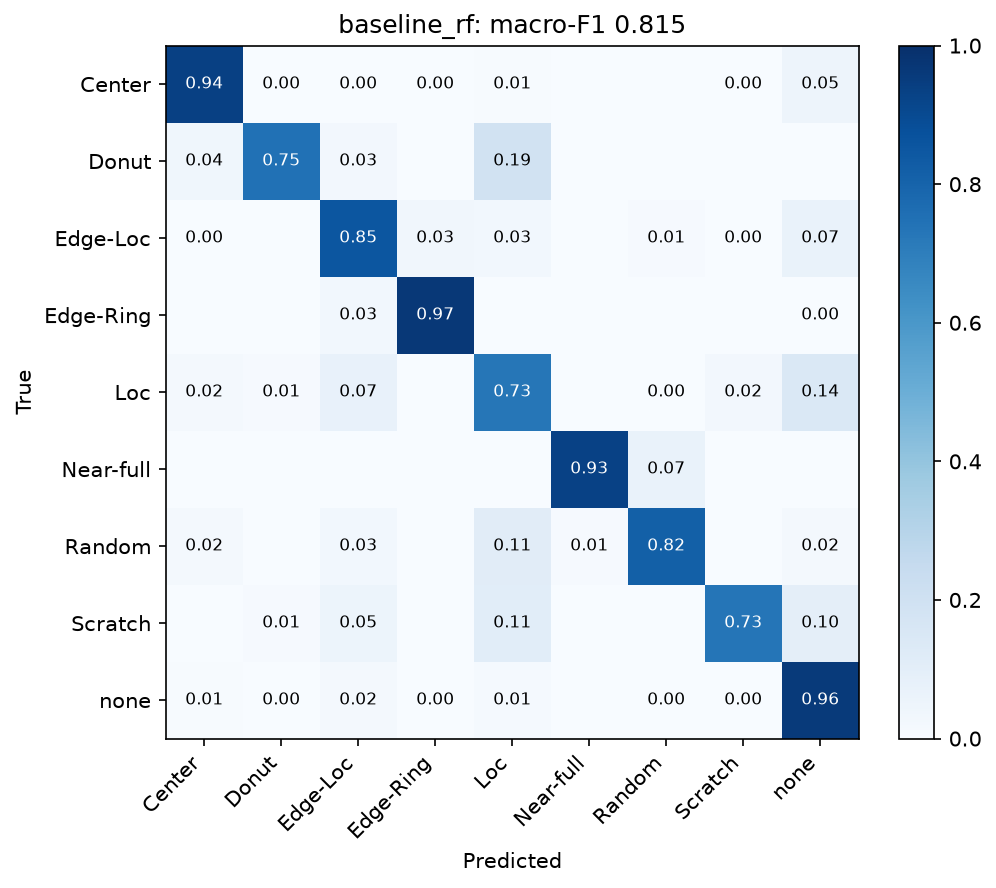
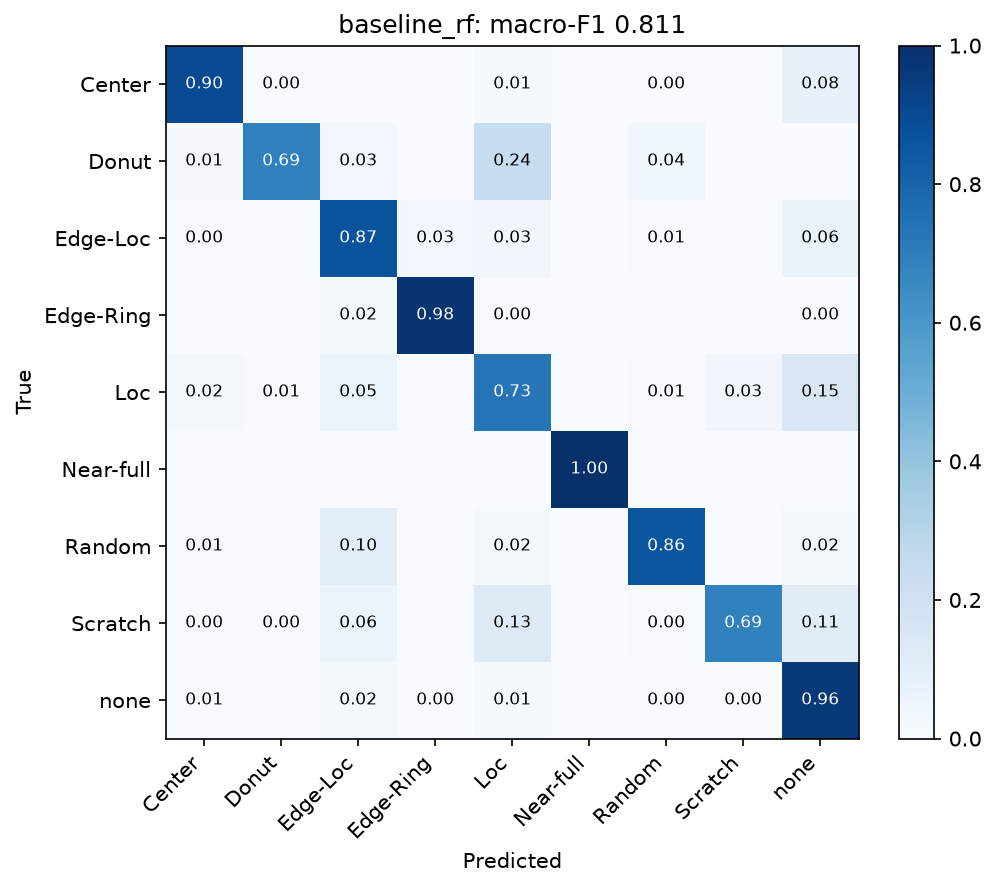
Drop repeat and retest records before analysis
Consecutive lot numbers in WM-811K often hold the same wafers recorded
again at a later test step. Counting them twice inflated the excursion
count and could put one wafer in both the training and the test set.

Add wafermap/records.py to tag each lot as first, repeat or retest, and
make report, baseline and cnn use first records only. --all-records
restores the old behaviour.

Rerun on the real data and update the README numbers and figures:
excursion lots 913 -> 746, random forest macro-F1 0.815 -> 0.811,
CNN 0.857 -> 0.861.

diff --git a/wafermap/records.py b/wafermap/records.py
@@ -1,0 +1,83 @@
+"""Recognise lots that are another record of the previous lot's wafers.
+
+WM-811K does not document it, but consecutive lot numbers often hold the same
+wafers recorded again at a later test step: the slots match, the die layouts
+are identical, and the fail maps are related in one of two regular ways.
+Treating those records as separate lots counts wafers twice, and can put the
+same wafer on both sides of a train/test split. The tags below are inferences
+from the maps, not documented facts.
+"""
+from __future__ import annotations
+
+import re
+
+import numpy as np
+import pandas as pd
+
+MIN_SHARED = 0.8  # share of slots the two lots must have in common, with identical die layouts
+NESTED = 0.9      # share of the smaller fail map that must lie inside the larger one
+SAME_SIZE = 0.8   # 'repeat': the two fail maps are at least this close in size
+FEW_FAILS = 0.2   # 'retest': under this fraction of the previous lot's fails
+
+
+def lot_number(lot_name: str) -> int:
+    digits = re.sub(r"\D", "", lot_name)
+    return int(digits) if digits else 0
+
+
+def relation(prev: dict[int, tuple], cur: dict[int, tuple]) -> str:
+    """How the lot `cur` relates to the lot numbered just before it: 'first', 'repeat' or 'retest'.
+
+    Each lot is {slot: (die mask, fail mask)}. Only slots present in both lots
+    with an identical die layout are compared.
+
+    - 'repeat': almost the same fail map, usually with a few more fails. It
+      reads as a later, cumulative snapshot of the same wafers.
+    - 'retest': far fewer fails, and either none of them on a die that already
+      failed, or all of them. It reads as a record of only the dies that
+      changed at a later step.
+    """
+    shared = [s for s in cur if s in prev and prev[s][0].shape == cur[s][0].shape
+              and np.array_equal(prev[s][0], cur[s][0])]
+    if len(shared) < MIN_SHARED * min(len(prev), len(cur)):
+        return "first"
+    n_die = sum(int(cur[s][0].sum()) for s in shared)
+    fails_prev = sum(int(prev[s][1].sum()) for s in shared)
+    fails_cur = sum(int(cur[s][1].sum()) for s in shared)
+    overlap = sum(int((prev[s][1] & cur[s][1]).sum()) for s in shared)
+    small, large = min(fails_prev, fails_cur), max(fails_prev, fails_cur)
+    if fails_prev == 0:
+        return "first"
+    # One map contains the other. Rule out wafers so full of fails that this happens by chance.
+    nested = small > 0 and overlap >= NESTED * small and large < 0.5 * n_die
+    if nested and small >= SAME_SIZE * large:
+        return "repeat"
+    if fails_cur < FEW_FAILS * fails_prev and (overlap == 0 or nested):
+        return "retest"
+    return "first"
+
+
+def classify_lots(df: pd.DataFrame) -> pd.Series:
+    """Tag every wafer's lot as 'first', 'repeat' or 'retest' (a Series aligned with `df`).
+
+    Needs every wafer of the dataset, labeled or not, with the rows of a lot
+    contiguous and lots in lot-number order, as in WM-811K.
+    """
+    tags: dict[str, str] = {}
+    prev_seq, prev, cur_lot, cur = None, {}, None, {}
+
+    def close() -> None:
+        nonlocal prev_seq, prev
+        if cur_lot is None:
+            return
+        seq = lot_number(cur_lot)
+        tags[cur_lot] = relation(prev, cur) if prev_seq is not None and seq == prev_seq + 1 else "first"
+        prev_seq, prev = seq, cur
+
+    for wmap, lot, slot in zip(df["waferMap"], df["lotName"], df["waferIndex"]):
+        if lot != cur_lot:
+            close()
+            cur_lot, cur = lot, {}
+        cur[int(slot)] = (wmap > 0, wmap == 2)
+    close()
+    return df["lotName"].map(tags).rename("record")

diff --git a/tests/test_pipeline.py b/tests/test_pipeline.py
@@ -65,3 +65,43 @@ def test_dataset_analysis_end_to_end():
     # the generator plants excursions in roughly a quarter of the lots
     assert 3 <= lots["excursion"].sum() <= 20
     assert lots.loc[lots["excursion"], "mean_yield"].mean() < lots.loc[~lots["excursion"], "mean_yield"].mean()
+
+
+# ------------------------------------------------- repeat / retest records
+
+def _lot(name, maps):
+    import pandas as pd
+    return pd.DataFrame({"waferMap": maps, "lotName": name, "waferIndex": range(1, len(maps) + 1),
+                         "failureType": "none"})
+
+
+def test_repeat_and_retest_records_are_tagged():
+    import pandas as pd
+    from wafermap.records import classify_lots
+
+    rng = np.random.default_rng(0)
+    first = [make_wafer("Edge-Ring", rng, 30) for _ in range(5)]
+    repeat, retest = [], []
+    for wmap in first:
+        again = wmap.copy()                               # cumulative record: old fails plus one more
+        passing = np.argwhere(wmap == 1)
+        again[tuple(passing[0])] = 2
+        repeat.append(again)
+        delta = np.where(wmap > 0, 1, 0).astype(np.uint8)  # only the die that newly failed
+        delta[tuple(passing[1])] = 2
+        retest.append(delta)
+    other = [make_wafer("Edge-Ring", rng, 30) for _ in range(5)]   # same pattern, different wafers
+    df = pd.concat([_lot("lot1", first), _lot("lot2", repeat), _lot("lot3", retest),
+                    _lot("lot4", other), _lot("lot9", [m.copy() for m in other])], ignore_index=True)
+    record = classify_lots(df)
+    assert record.groupby(df["lotName"]).first().to_dict() == {
+        "lot1": "first", "lot2": "repeat", "lot3": "retest",
+        "lot4": "first",      # an unrelated lot, even with the same defect pattern
+        "lot9": "first",      # identical maps, but not the next lot number
+    }
+
+
+def test_synthetic_lots_are_all_first_records():
+    from wafermap.records import classify_lots
+    df = make_dataset(n_lots=60, wafers_per_lot=25, seed=5)
+    assert (classify_lots(df) == "first").all()

diff --git a/wafermap/data.py b/wafermap/data.py
@@ -102,6 +102,27 @@ def labeled(df: pd.DataFrame) -> pd.DataFrame:
     return df[df["failureType"].isin(CLASSES)].reset_index(drop=True)
 
 
+def load_labeled(path: str | Path, all_records: bool = False) -> pd.DataFrame:
+    """Labeled wafers ready for analysis.
+
+    By default, lots that are a repeat or retest record of the previous lot's
+    wafers are dropped (see `wafermap.records`), so each physical wafer is
+    counted once. The tagging runs on the full dataset before the unlabeled
+    wafers are removed, because it compares neighbouring lots.
+    """
+    from .records import classify_lots
+
+    df = load_dataset(path)
+    if not all_records:
+        record = classify_lots(df)
+        kept = labeled(df[record == "first"])
+        dropped = len(labeled(df)) - len(kept)
+        print(f"dropped {dropped} labeled wafers in repeat/retest records "
+              f"({int((record != 'first').sum())} wafers in such records overall)")
+        return kept
+    return labeled(df)
+
+
 def resize(wmap: np.ndarray, size: int = 64) -> np.ndarray:
     """Nearest-neighbour resize, so the values stay exactly {0, 1, 2}."""
     h, w = wmap.shape

diff --git a/wafermap/cnn.py b/wafermap/cnn.py
@@ -13,7 +13,7 @@ import torch
 from sklearn.metrics import f1_score
 from torch import nn
 
-from .data import CLASSES, labeled, load_dataset, to_arrays
+from .data import CLASSES, load_labeled, to_arrays
 from .evaluate import score, split_indices
 
 
@@ -84,12 +84,14 @@ def main() -> None:
                     help="0 = no class weighting, 1 = full inverse-frequency weighting")
     ap.add_argument("--max-wafers", type=int, default=None)
     ap.add_argument("--seed", type=int, default=0)
+    ap.add_argument("--all-records", action="store_true",
+                    help="keep repeat/retest records of the same wafers (dropped by default)")
     args = ap.parse_args()
 
     torch.manual_seed(args.seed)
     device = "cuda" if torch.cuda.is_available() else "mps" if torch.backends.mps.is_available() else "cpu"
 
-    df = labeled(load_dataset(args.data))
+    df = load_labeled(args.data, args.all_records)
     if args.max_wafers and len(df) > args.max_wafers:
         df = df.sample(args.max_wafers, random_state=args.seed).reset_index(drop=True)
     X_np, y_np = to_arrays(df, args.size)

diff --git a/wafermap/baseline.py b/wafermap/baseline.py
@@ -9,7 +9,7 @@ import argparse
 import pandas as pd
 from sklearn.ensemble import RandomForestClassifier
 
-from .data import CLASS_TO_IDX, labeled, load_dataset
+from .data import CLASS_TO_IDX, load_labeled
 from .evaluate import score, split_indices
 from .features import FEATURE_COLUMNS, extract_features
 
@@ -20,9 +20,11 @@ def main() -> None:
     ap.add_argument("--out", default="reports")
     ap.add_argument("--max-wafers", type=int, default=None)
     ap.add_argument("--seed", type=int, default=0)
+    ap.add_argument("--all-records", action="store_true",
+                    help="keep repeat/retest records of the same wafers (dropped by default)")
     args = ap.parse_args()
 
-    df = labeled(load_dataset(args.data))
+    df = load_labeled(args.data, args.all_records)
     if args.max_wafers and len(df) > args.max_wafers:
         df = df.sample(args.max_wafers, random_state=args.seed).reset_index(drop=True)
     X = extract_features(df)[FEATURE_COLUMNS].to_numpy()

diff --git a/wafermap/report.py b/wafermap/report.py
@@ -8,7 +8,7 @@ import argparse
 from pathlib import Path
 
 from . import analysis, plots
-from .data import labeled, load_dataset
+from .data import load_labeled
 from .features import extract_features
 
 
@@ -18,11 +18,13 @@ def main() -> None:
     ap.add_argument("--out", default="reports")
     ap.add_argument("--max-wafers", type=int, default=None,
                     help="randomly sample this many labeled wafers (the full WM-811K takes a while)")
+    ap.add_argument("--all-records", action="store_true",
+                    help="keep repeat/retest records of the same wafers (dropped by default)")
     args = ap.parse_args()
     out = Path(args.out)
     out.mkdir(parents=True, exist_ok=True)
 
-    df = labeled(load_dataset(args.data))
+    df = load_labeled(args.data, args.all_records)
     if args.max_wafers and len(df) > args.max_wafers:
         df = df.sample(args.max_wafers, random_state=0).reset_index(drop=True)
     feats = extract_features(df)

diff --git a/README.md b/README.md
@@ -10,7 +10,7 @@
 
 ## 真实数据结果 (WM-811K)
 
-数据:811,457 片晶圆、46,293 个 lot,其中 172,950 片有人工标注。以下分析只用有标注的部分。
+数据:811,457 片晶圆、46,293 个 lot,其中 172,950 片有人工标注。以下分析只用有标注的部分,并去掉了重复记录(见下文"同一批晶圆的重复记录"),剩 170,684 片。
 
 ![九类缺陷模式各一片真实晶圆,红色为失效 die](docs/gallery.png)
 
@@ -18,33 +18,33 @@
 
 | 指标 | 数值 |
 |---|---|
-| 整体良率 | 89.8% |
-| 系统性损失(5 个以上相连的失效 die) | 3.7% |
+| 整体良率 | 89.9% |
+| 系统性损失(5 个以上相连的失效 die) | 3.6% |
 | 随机损失(孤立失效) | 6.5% |
 
-- 66.5% 的失效 die 落在标注为 `none`(无明显图案)的晶圆上,也就是说大部分良率损失来自背景缺陷,不是可识别的图案。
-- 在有图案的晶圆里,Edge-Ring 损失最大,占全部失效 die 的 16.0%;其次是 Edge-Loc 5.3%、Center 4.0%。
-- 按 slot(1–25)统计的平均良率在 88.1%–88.4% 之间,没有 slot 效应。
+- 67.8% 的失效 die 落在标注为 `none`(无明显图案)的晶圆上,也就是说大部分良率损失来自背景缺陷,不是可识别的图案。
+- 在有图案的晶圆里,Edge-Ring 损失最大,占全部失效 die 的 16.2%;其次是 Edge-Loc 5.1%,Loc 和 Center 各 2.8%。
+- 按 slot(1–25)统计的平均良率在 88.2%–88.5% 之间,没有 slot 效应。
 
 ![按缺陷模式统计的良率损失 Pareto 图](docs/pattern_pareto.png)
 
 **批次 excursion**
 
-- 有 5 片以上标注晶圆的 lot 共 7,418 个,其中 913 个(12.3%)被标记为 excursion。
-- 主导图案:Edge-Ring 405 个、Center 291 个、Edge-Loc 89 个、Loc 63 个。
-- excursion lot 的平均良率是 79.7%,其他 lot 是 86.3%。
+- 有 5 片以上标注晶圆的 lot 共 7,251 个,其中 746 个(10.3%)被标记为 excursion。
+- 主导图案:Edge-Ring 404 个、Center 158 个、Edge-Loc 78 个、Loc 42 个。
+- excursion lot 的平均良率是 80.9%,其他 lot 是 87.1%。
 
 **缺陷模式分类**
 
-按 lot 分组做 80/20 划分(同一 lot 的晶圆不会同时出现在训练集和测试集),测试集 34,601 片:
+按 lot 分组做 80/20 划分(同一 lot 的晶圆不会同时出现在训练集和测试集),测试集 34,133 片:
 
 | 模型 | macro-F1 | accuracy |
 |---|---|---|
-| 随机森林(17 个空间特征) | 0.815 | 0.95 |
-| CNN(类别权重强度 0.5,15 epochs) | 0.857 | 0.97 |
+| 随机森林(17 个空间特征) | 0.811 | 0.95 |
+| CNN(类别权重强度 0.5,15 epochs) | 0.861 | 0.97 |
 
-- 随机森林最弱的两类是 Loc(F1 0.61)和 Edge-Loc(F1 0.67),最重要的特征是最大失效团的径向位置。
-- CNN 在这两类上提升最明显:Loc 0.75、Edge-Loc 0.79。它最弱的仍是 Loc 和 Scratch(都是 0.75)。
+- 随机森林最弱的三类是 Loc(F1 0.60)、Scratch(0.63)和 Edge-Loc(0.67),最重要的特征是最大失效团的径向位置。
+- CNN 在这三类上都有提升:Loc 0.73、Scratch 0.72、Edge-Loc 0.81。它最弱的仍是 Scratch 和 Loc。
 
 混淆矩阵按行归一化,每行是一个真实类别被预测成各类的比例:
 
@@ -58,13 +58,13 @@
 
 | 权重强度 | 验证集 macro-F1 | 测试集 macro-F1 | 宏平均精确率 | 宏平均召回率 |
 |---|---|---|---|---|
-| 0(不加权) | 0.865 | 0.853 | 0.88 | 0.83 |
-| 0.5(平方根) | 0.863 | 0.857 | 0.83 | 0.89 |
-| 1(完全按频率倒数) | 0.801 | 0.798 | 0.74 | 0.89 |
+| 0(不加权) | 0.848 | 0.856 | 0.88 | 0.84 |
+| 0.5(平方根) | 0.847 | 0.861 | 0.84 | 0.88 |
+| 1(完全按频率倒数) | 0.769 | 0.764 | 0.69 | 0.89 |
 
-- 强度 1 时一片 Near-full 的权重约是一片 `none` 的 1000 倍,模型把大量 `none` 误判成稀有类,Scratch 的精确率只有 0.38。
-- 强度 0 和 0.5 的 macro-F1 相差在单次运行的波动范围内。默认取 0.5,因为它对缺陷类的召回率更高(0.89 对 0.83),漏判缺陷图案的代价通常比误报大。
-- 第一次未调参的运行(强度 1、固定学习率、12 epochs、无验证集)只有 0.659;加上余弦学习率衰减和验证集选 epoch 后,同样强度 1 是 0.798。
+- 强度 1 时一片 Near-full 的权重约是一片 `none` 的 1000 倍,模型把大量 `none` 误判成稀有类,Scratch 的精确率只有 0.30。
+- 强度 0 和 0.5 的 macro-F1 相差在单次运行的波动范围内。默认取 0.5,因为它对缺陷类的召回率更高(0.88 对 0.84),漏判缺陷图案的代价通常比误报大。
+- 余弦学习率衰减和用验证集选 epoch 也有帮助:去重之前的一次对比里,同样是强度 1,不用这两项时是 0.659,用了之后是 0.798。
 
 口径说明:
 
@@ -72,12 +72,20 @@
 - 这份数据混合了多种产品(晶圆图尺寸从 3 到 300 不等),整体良率是所有产品合在一起的数。
 - 没有用数据集自带的 Training/Test 划分。
 
+**同一批晶圆的重复记录**
+
+WM-811K 里连续的批次号经常是同一批晶圆在后续测试步骤的再次记录:slot 相同、die 位置完全一致,失效图要么几乎相同(只多几个失效),要么只剩零星几个失效。数据集文档没有说明这一点,这是逐片对比晶圆图后的推断,判定规则在 `wafermap/records.py`。
+
+- 全部 811,457 片里有 187,504 片属于这类记录,但它们绝大多数没有标注:有标注的只有 2,266 片(1.3%),其中 1,541 片是 Center 类。
+- 默认去掉这些记录,否则同一片晶圆会被数两次,还可能同时出现在训练集和测试集。加 `--all-records` 可以保留它们。
+- 去掉前后对比:excursion 批次从 913 个降到 746 个(Center 主导的从 291 降到 158),其余结论不变,随机森林从 0.815 到 0.811,CNN 从 0.857 到 0.861。
+
 ## 快速开始
 
 ```bash
 pip install -e ".[dev]"          # 基础依赖
 pip install -e ".[cnn]"          # 可选:PyTorch,只有 CNN 需要
-pytest                            # 6 项测试
+pytest                            # 8 项测试
 python -m wafermap.synthetic --out data/synthetic.pkl --n-lots 80
 python -m wafermap.report   --data data/synthetic.pkl --out reports
 python -m wafermap.baseline --data data/synthetic.pkl --out reports
@@ -87,7 +95,7 @@ python -m wafermap.cnn      --data data/synthetic.pkl --out reports --epochs 30
 ## 换成真实数据 (WM-811K)
 
 1. 在 Kaggle 搜索 `wm811k-wafer-map`,下载并解压出 `LSWMD.pkl`(约 2 GB),放到 `data/wm811k/LSWMD.pkl`。
-2. 把上面命令里的 `--data` 换成 `data/wm811k/LSWMD.pkl`,`--out` 换成 `reports/wm811k`。想先快速试跑可以加 `--max-wafers 20000`。
+2. 把上面命令里的 `--data` 换成 `data/wm811k/LSWMD.pkl`,`--out` 换成 `reports/wm811k_first`。想先快速试跑可以加 `--max-wafers 20000`。
 
 注意:
 
@@ -102,6 +110,7 @@ python -m wafermap.cnn      --data data/synthetic.pkl --out reports --epochs 30
 |---|---|
 | `wafermap/data.py` | 读取数据、统一字段、最近邻缩放 |
 | `wafermap/synthetic.py` | 生成与 WM-811K 同结构的合成晶圆 |
+| `wafermap/records.py` | 识别同一批晶圆的重复和复测记录 |
 | `wafermap/features.py` | 每片晶圆的空间特征(分区失效率、径向/扇区分布、连通域) |
 | `wafermap/analysis.py` | 损失拆分、模式 Pareto、lot excursion、slot 良率 |
 | `wafermap/baseline.py` | 随机森林基线 + 特征重要性 |
@@ -124,7 +133,8 @@ python -m wafermap.cnn      --data data/synthetic.pkl --out reports --epochs 30
 
 数字来自上面的真实数据结果:
 
-- 基于 WM-811K(81 万片真实晶圆图,17.3 万片有标注)搭建良率分析流程,用分区失效率和连通域分析将 10.2% 的良率损失拆分为系统性 3.7% / 随机性 6.5%
-- 设计 lot 内缺陷模式共性规则,从 7,418 个 lot 中识别出 913 个 excursion 批次,其平均良率比正常批次低 6.6 个百分点
-- 对比 17 个可解释空间特征 + 随机森林与 CNN 两种缺陷模式分类方法,在 `none` 占 85% 的类别不平衡下,按 lot 分组划分的 macro-F1 分别为 0.815 和 0.857
-- 通过对照实验定位 CNN 误报的原因是类别权重过强,把权重从频率倒数改为其平方根后,macro-F1 从 0.798 提升到 0.857,Scratch 精确率从 0.38 提升到 0.71
+- 基于 WM-811K(81 万片真实晶圆图,17.3 万片有标注)搭建良率分析流程,用分区失效率和连通域分析将 10.1% 的良率损失拆分为系统性 3.6% / 随机性 6.5%
+- 设计 lot 内缺陷模式共性规则,从 7,251 个 lot 中识别出 746 个 excursion 批次,其平均良率比正常批次低 6.2 个百分点
+- 对比 17 个可解释空间特征 + 随机森林与 CNN 两种缺陷模式分类方法,在 `none` 占 85% 的类别不平衡下,按 lot 分组划分的 macro-F1 分别为 0.811 和 0.861
+- 通过对照实验定位 CNN 误报的原因是类别权重过强,把权重从频率倒数改为其平方根后,macro-F1 从 0.764 提升到 0.861,Scratch 精确率从 0.30 提升到 0.70
+- 通过逐片对比晶圆图发现数据集中同一批晶圆被重复记录,去重后修正了 excursion 批次数(913 → 746),并避免了同一片晶圆同时进入训练集和测试集
